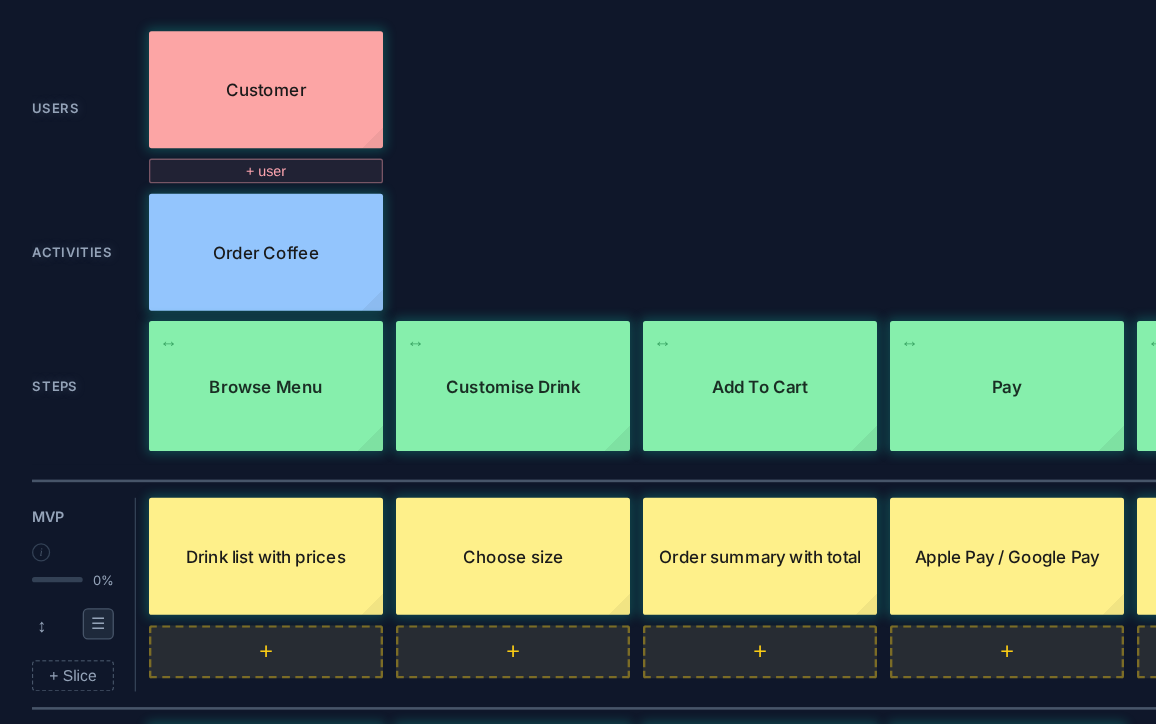
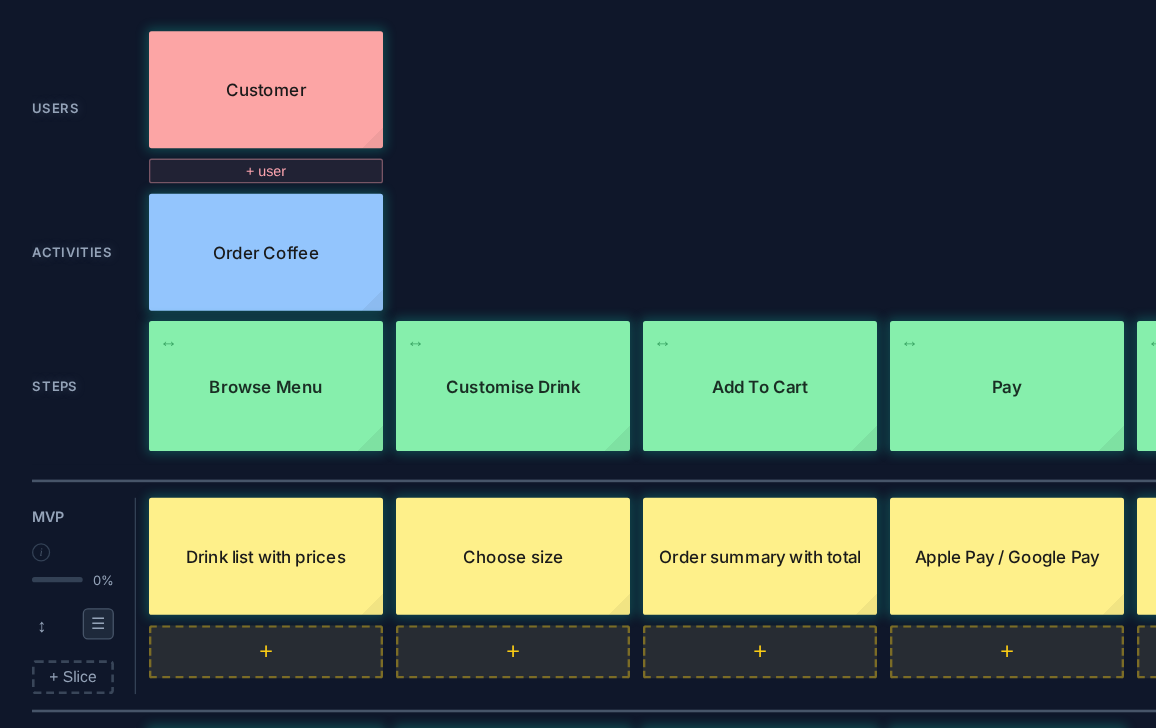
Put the tasks dot back on the parts screenshot
Dot 4 on the parts of a story map screenshot pointed at a card below the bottom of the picture, so it was cut off. It now points at a task in the first slice.

diff --git a/public/docs/what-is-a-user-story-map.html b/public/docs/what-is-a-user-story-map.html
@@ -201,8 +201,8 @@
 <h2 id="the-parts-of-a-story-map">The parts of a story map</h2>
 <figure class="shot" style="max-width: 867px">
 <div class="shot-pic">
-<img class="only-light" src="/docs/img/your-first-story-map-parts.png?v=c140bcbf" alt="The parts of a story map, on the coffee ordering example." width="578" height="362" loading="lazy">
-<img class="only-dark" src="/docs/img/your-first-story-map-parts-dark.png?v=8b798383" alt="The parts of a story map, on the coffee ordering example." width="578" height="362" loading="lazy"><span class="callout" style="left: 13.6%; top: 5.4%">1</span><span class="callout" style="left: 13.6%; top: 27.9%">2</span><span class="callout" style="left: 13.6%; top: 45.5%">3</span><span class="callout" style="left: 34.9%; top: 101.4%">4</span><span class="callout" style="left: 4.6%; top: 79.2%">5</span>
+<img class="only-light" src="/docs/img/your-first-story-map-parts.png?v=38078919" alt="The parts of a story map, on the coffee ordering example." width="578" height="364" loading="lazy">
+<img class="only-dark" src="/docs/img/your-first-story-map-parts-dark.png?v=97ca0eb6" alt="The parts of a story map, on the coffee ordering example." width="578" height="364" loading="lazy"><span class="callout" style="left: 13.6%; top: 5.4%">1</span><span class="callout" style="left: 13.6%; top: 27.7%">2</span><span class="callout" style="left: 13.6%; top: 45.2%">3</span><span class="callout" style="left: 34.9%; top: 69.5%">4</span><span class="callout" style="left: 4.6%; top: 78.8%">5</span>
 </div>
 <figcaption>The parts of a story map, on the coffee ordering example.</figcaption>
 </figure>
